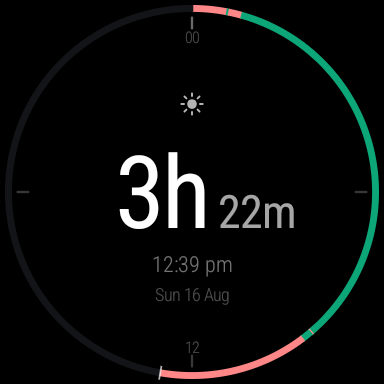
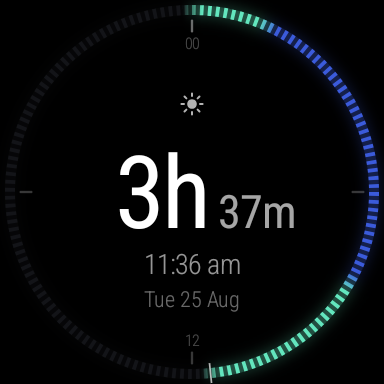
Tune the band until the whole day is on it
Shot four settings of the ring on the watch and read them back. Denser ticks
fuse into the line they were meant to break up, and sparser ones read as a
segmented bar, so the count went the other way: 144, one tick per ten minutes of
the day. What the band is a scale of should be a real unit rather than whatever
number looked right, and the old comment claiming twelve ticks to the hour was
wrong about its own arithmetic besides.

The clearest gain was the track. At alpha 30 the unlived part of the day was
barely there; at 55 the ring is whole and the lived part is lit within it, which
is the difference between a bar filling and a day being measured. The bloom goes
up to match, since the ticks now have gaps wide enough to see light spill into.

README screenshot retaken against this.

Claude-Session: https://claude.ai/code/session_016h81hJmsLBfsdch24ac2pX

diff --git a/app/src/main/java/com/awakeface/watch/AwakeRenderer.kt b/app/src/main/java/com/awakeface/watch/AwakeRenderer.kt
@@ -187,8 +187,8 @@ class AwakeRenderer(
      */
     private fun drawTickBand(canvas: Canvas, radius: Float, inset: Float, ambient: Boolean) {
         val ringRadius = radius - inset
-        // A tick every two degrees, a touch under half of it inked. Held to an exact number of
-        // whole ticks around the circle so the last one meets the first cleanly at midnight.
+        // An exact number of whole ticks around the circle, so the last one meets the first cleanly
+        // at midnight rather than leaving a short mark there.
         val pitch = (2f * Math.PI.toFloat() * ringRadius) / TICK_COUNT
 
         if (!ambient) {
@@ -196,7 +196,7 @@ class AwakeRenderer(
             // day is still visibly part of the same ring.
             ringPaint.pathEffect = null
             ringPaint.maskFilter = null
-            ringPaint.alpha = 30
+            ringPaint.alpha = 55
             canvas.drawPath(ringPath, ringPaint)
         }
 
@@ -205,8 +205,8 @@ class AwakeRenderer(
         if (!ambient) {
             // The bloom. Blurred and faint, drawn under the ticks, so the colour spills a little
             // past the band the way light does instead of stopping at the edge of the stroke.
-            ringPaint.maskFilter = BlurMaskFilter(radius * 0.045f, BlurMaskFilter.Blur.NORMAL)
-            ringPaint.alpha = 140
+            ringPaint.maskFilter = BlurMaskFilter(radius * 0.060f, BlurMaskFilter.Blur.NORMAL)
+            ringPaint.alpha = 175
             canvas.drawPath(ringPath, ringPaint)
             ringPaint.maskFilter = null
         }
@@ -368,10 +368,16 @@ class AwakeRenderer(
         private const val UPDATE_DELAY_MILLIS = 60_000L
         private const val START_ANGLE = -90f
 
-        /** Ticks around the band: one every two degrees, twelve to the hour of the day. */
-        private const val TICK_COUNT = 180
+        /**
+         * Ticks around the band: one per ten minutes of the day, six to the hour.
+         *
+         * The count is what the band is a scale *of*, so it is worth it being a real unit rather
+         * than whatever number looked right. Denser than this and the marks fuse back into the line
+         * the ticks were meant to break up; sparser and the ring reads as a segmented bar.
+         */
+        private const val TICK_COUNT = 144
 
         /** How much of each tick's span is inked; the rest is the gap to the next. */
-        private const val TICK_DUTY = 0.45f
+        private const val TICK_DUTY = 0.47f
     }
 }

diff --git a/README.md b/README.md
@@ -8,10 +8,10 @@
 [![Wear OS](https://img.shields.io/badge/Wear%20OS-4%2B-4285F4?style=for-the-badge&logo=wearos&logoColor=white)](https://wearos.google.com)
 [![Stars](https://img.shields.io/github/stars/jagenaujagenau/vigil?style=for-the-badge)](https://github.com/jagenaujagenau/vigil/stargazers)
 
-<img src="docs/vigil.png" width="320" alt="Vigil on a Pixel Watch 2: a sun, 3h 22m, and a ring showing the night in teal and the day so far in coral">
+<img src="docs/vigil.png" width="320" alt="Vigil on a Pixel Watch 2: a sun, 3h 37m, and a ring of ticks showing the night in blue and the day so far in teal">
 
-*A real morning on a Pixel Watch 2: awake past midnight, asleep until 09:17,
-three and a bit hours since.*
+*A real morning on a Pixel Watch 2: awake past midnight, asleep until just
+before eight, three and a half hours since.*
 
 </div>
 
@@ -65,10 +65,10 @@ coloured where you were awake and where you were asleep, left almost dark for th
 hours still to come. Position on the band is a time of day you can read directly,
 so a night sits where the night was.
 
-It is drawn as a run of short ticks rather than one solid stroke, and one colour
-fades into the next instead of meeting it at a line. Sleep is detected over
-minutes, not at an instant, so a hard edge would claim a precision the data does
-not have.
+It is drawn as a run of short ticks — one per ten minutes of the day — rather
+than one solid stroke, and one colour fades into the next instead of meeting it
+at a line. Sleep is detected over minutes, not at an instant, so a hard edge
+would claim a precision the data does not have.
 
 Two numbers give it a scale — `00` at the top, `12` at the bottom — with quarter
 ticks between and a hairline for *now* that travels round as the day is lived.
@@ -199,7 +199,7 @@ share of the circle.
 This app draws them as one stroked circle, not an arc per stretch: `RingGradient`
 turns the segments into sweep-gradient stops that hold each colour flat through
 the middle of its stretch and cross over the boundary, and a `DashPathEffect`
-breaks the stroke into 180 ticks. Midnight is the one boundary a sweep cannot
+breaks the stroke into 144 ticks, one per ten minutes of the day. Midnight is the one boundary a sweep cannot
 fade across, being where it begins and ends, so both ends are pinned to the
 halfway colour and meet invisibly.
 
